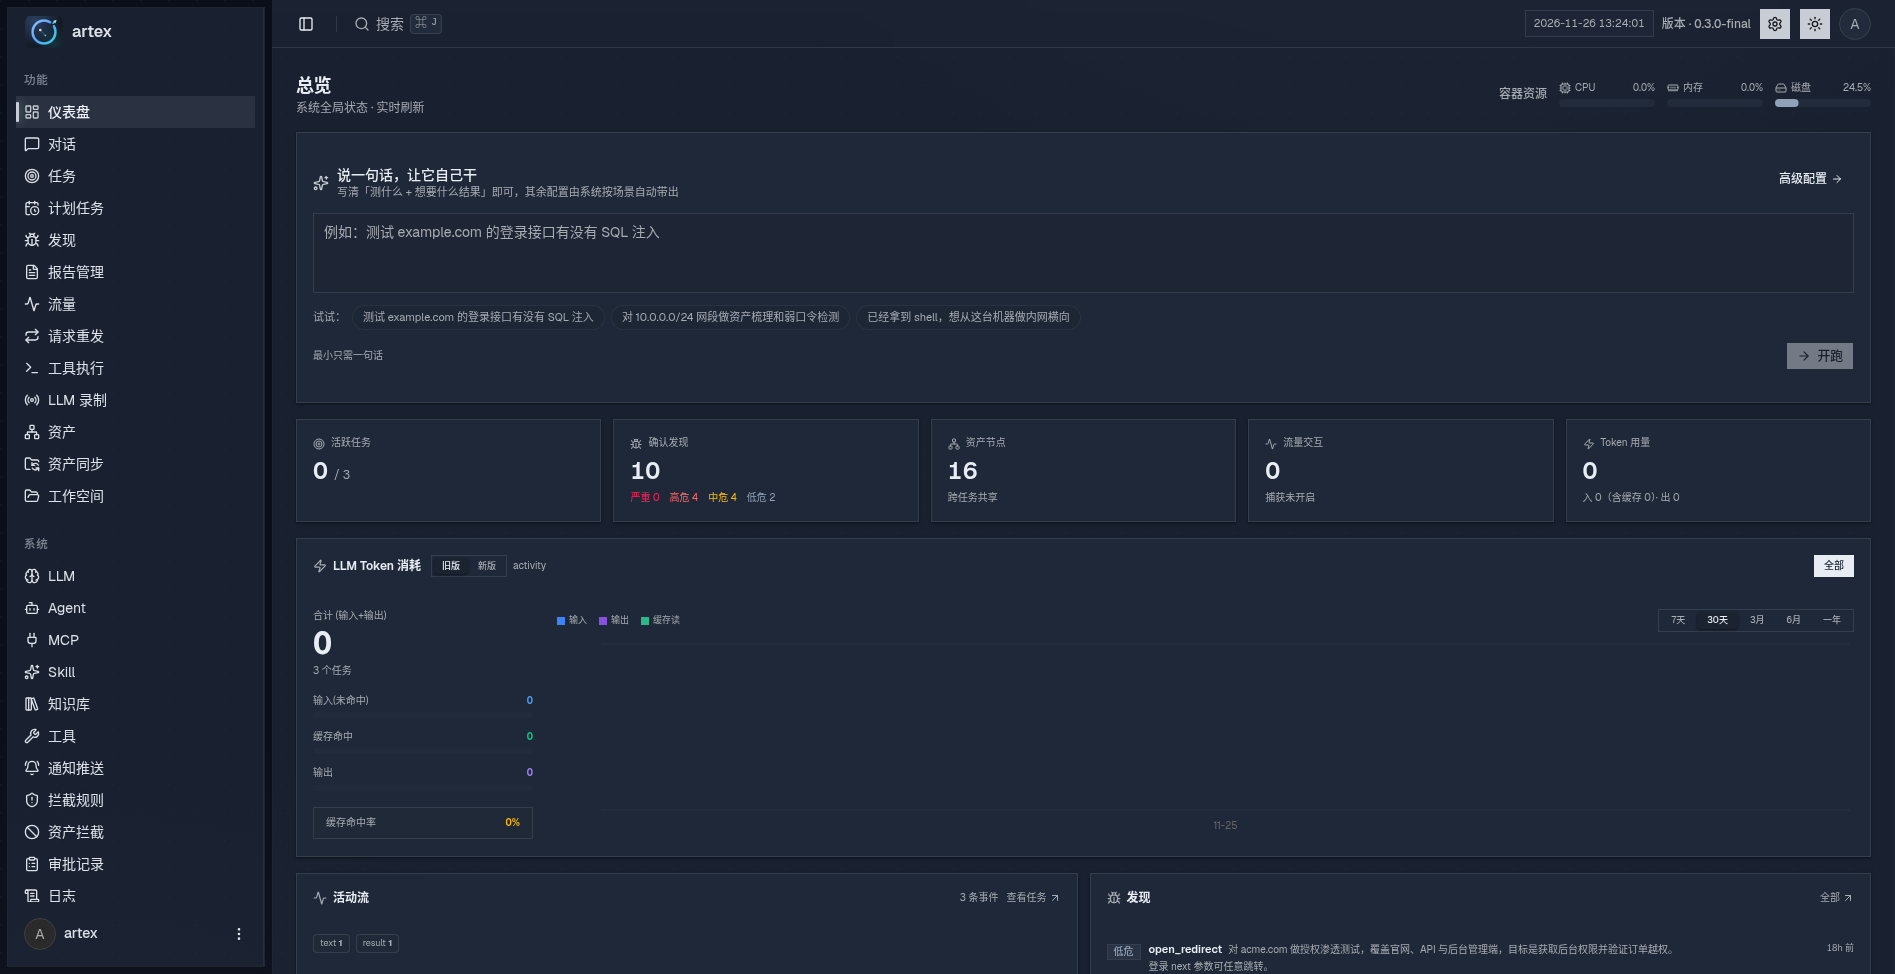
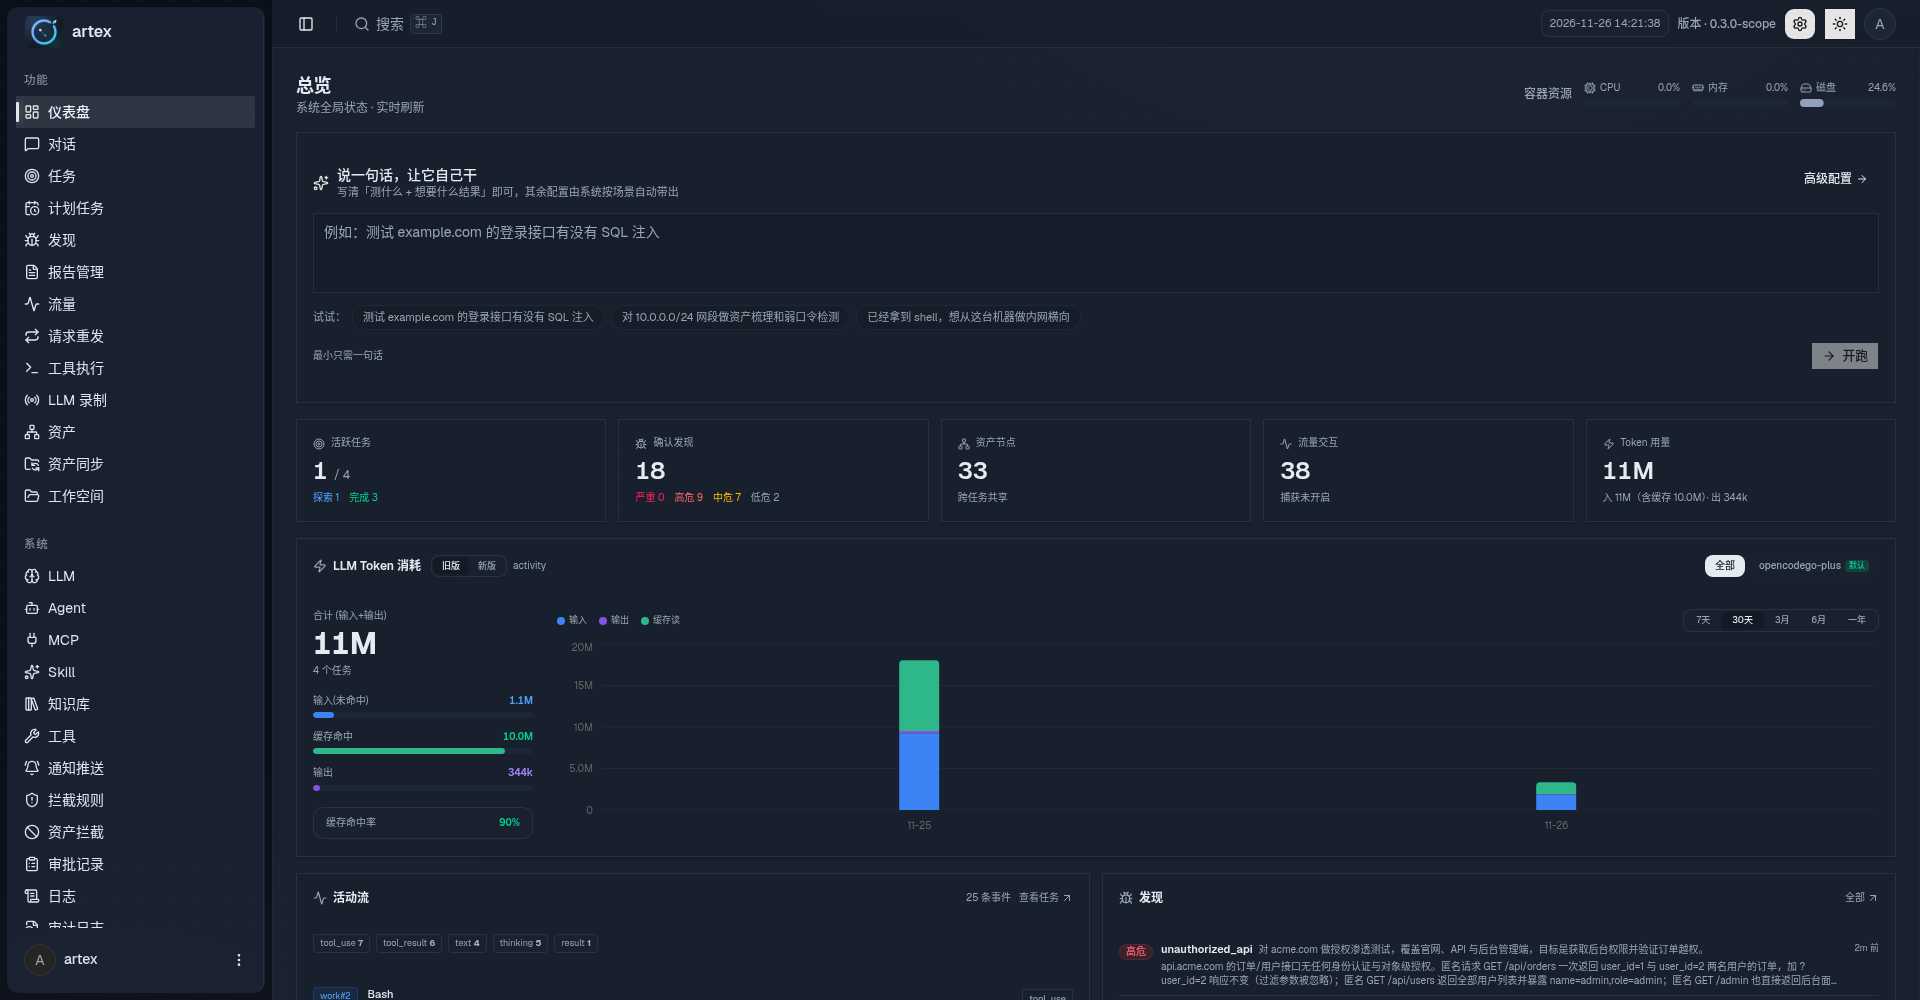
fix(ui): Abyss 亮色变量盖掉暗色变量（卡片白底黑字）
亮色块原写作 :root[data-theme-preset="abyss"]（特异性 0,2,0），
高于 globals 的 .dark（0,1,0）—— 暗色模式下亮色变量照样生效：
  卡片白底黑字、侧栏文字深灰几乎看不见。

改为 :root:not(.dark)[...]（仅亮色生效），并为 .dark[data-theme-preset="abyss"]
单独补齐 Abyss 暗色语义变量（--card #18202d / --sidebar #141b27 /
--border 白色 8% 等），不再沿用 globals 的通用暗灰。

diff --git a/web/src/styles/presets/abyss.css b/web/src/styles/presets/abyss.css
@@ -24,7 +24,12 @@ value: abyss
    一点蓝调（oklch 色相 250 附近）与玻璃质感，同时保持文字对比度 ≥ AA。
    ═══════════════════════════════════════════════════════════════════════ */
 
-:root[data-theme-preset="abyss"] {
+/* ⚠ 必须带 :not(.dark) —— 本块特异性要高于 globals 的 `.dark`(0,1,0)，
+   若写成 `:root[data-theme-preset="abyss"]`(0,2,0)，暗色模式下本块的亮色变量
+   会盖掉 `.dark` 的暗色变量：卡片变白底黑字、侧栏文字变深灰。
+   加上 :not(.dark) 后本块只作用于亮色，暗色由 globals 的 `.dark` 接管。
+   Abyss 的暗色端覆盖则由后文 `.dark[data-theme-preset="abyss"]` 单独给。 */
+:root:not(.dark)[data-theme-preset="abyss"] {
   /* 亮色端配色 = 对参考亮色截图（docs/screenshots/02-settings-light.png, 1920×1080）
      做像素采样的实测值：
        外壳缝隙 #fefeff / 侧栏 #ffffff / 画布 #fdfeff（微蓝）/ 控件 #ffffff
@@ -153,9 +158,41 @@ value: abyss
    玻璃 rgba(38,48,68,.55) 必须叠在**外壳**上才合成出 #192131（≈截图 #1b2331）。
    若 html 铺 --background(#1b2331)，玻璃叠上去会亮成 #1f2838（实测）——
    这就是"玻璃反而把底变亮"的原因。 */
+/* Abyss 的暗色端变量（globals 的 `.dark` 是通用暗色，不是 Abyss 配色）。
+   必须写全：--card / --popover / --sidebar 等语义色都要覆盖，
+   否则卡片/弹层会用通用暗灰，而不是 Abyss 的深空玻璃色。 */
 .dark[data-theme-preset="abyss"] {
   background-image: none;
   background-color: #0a0f1a;
+
+  --background: #131a26;
+  --foreground: #e6ebf2;
+  --card: #18202d;
+  --card-foreground: #e6ebf2;
+  --popover: #18202d;
+  --popover-foreground: #e6ebf2;
+
+  --secondary: #1d2634;
+  --secondary-foreground: #dbe2ec;
+  --muted: #1d2634;
+  --muted-foreground: #9aa5b4;
+  --accent: #223042;
+  --accent-foreground: #d6e4f5;
+  --destructive: #e0554b;
+
+  --border: rgba(255, 255, 255, 0.08);
+  --input: rgba(255, 255, 255, 0.10);
+
+  --sidebar: #141b27;
+  --sidebar-foreground: #dfe5ee;
+  --sidebar-accent: #1e2836;
+  --sidebar-accent-foreground: #e2eaf5;
+  --sidebar-border: rgba(255, 255, 255, 0.07);
+
+  --severity-critical: #ff6b6b;
+  --severity-high: #ff7a45;
+  --severity-medium: #f5b544;
+  --severity-low: #8fa3bd;
 }
 
 /* 侧栏：与地面同色 + 半透，让点阵与光池从下面透上来（参考的 shell-sidebar 就是同值）。

diff --git a/CHANGELOG.md b/CHANGELOG.md
@@ -8,6 +8,13 @@
 
 ### Added
 
+- **修：Abyss 亮色变量盖掉暗色变量**。亮色块原写作 `:root[data-theme-preset="abyss"]`
+  （特异性 0,2,0），高于 globals 的 `.dark`（0,1,0）—— 暗色模式下亮色变量照样生效，
+  表现为**卡片白底黑字、侧栏文字深灰几乎看不见**。
+  改为 `:root:not(.dark)[data-theme-preset="abyss"]`（亮色才生效），并为
+  `.dark[data-theme-preset="abyss"]` 单独补齐 Abyss 的暗色语义变量
+  （--card #18202d / --sidebar #141b27 / --border 白色 8% 等），
+  而不是沿用 globals 的通用暗灰。
 - **修：任务详情接口不返回 token 消耗**。`GET /api/tasks/{id}` 漏填 `Tokens`，
   只有 `GET /api/tasks`（列表）填了 —— 同一任务在列表页显示真实消耗、在详情页显示 0。
   实测任务 #4：列表页 865371 输入 / 41092 输出，详情页全 0。
